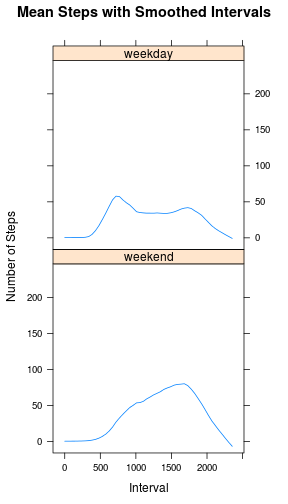
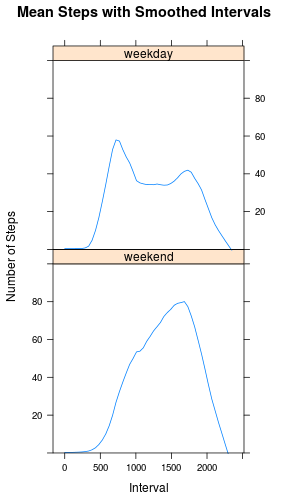
revised interpretation

diff --git a/PA1_template.html b/PA1_template.html
@@ -455,14 +455,14 @@ xyplot(interval_steps$imputed_steps ~ interval_steps$interval | day, data=interv
 
 <pre><code class="r">xyplot(interval_steps$imputed_steps ~ interval_steps$interval | day, data=interval_steps,
        layout=c(1,2), main=&quot;Mean Steps with Smoothed Intervals&quot;, xlab=&quot;Interval&quot;,
-       ylab=&quot;Number of Steps&quot;, type=c(&quot;smooth&quot;,&quot;smooth&quot;), span=.25)
+       ylab=&quot;Number of Steps&quot;, type=c(&quot;smooth&quot;,&quot;smooth&quot;), span=.25, ylim = c(0,100))
 </code></pre>
 
[2 lines of base64/hex data omitted]
 
 <h3>Interpretation</h3>
 
-<p>The plots show that the weekday step count peaks earlier in the day, plateaus for some hours, and then has another increase later in the day. The weekend step counts build throughout the day and reach a higher maximum than the weekday counts. This seems to be consistent with a  traditional 40-hour work week schedule.</p>
+<p>The plots show that the weekday step counts peak eary in the day, plateau for some hours, and then increase later in the day. The weekend step counts build quickly and do not plateau. This seems consistent with a traditional 40-hour work week schedule.</p>
 
 </body>
 

diff --git a/PA1_template.md b/PA1_template.md
@@ -300,11 +300,11 @@ Now using a smoothing filter:
 ```r
 xyplot(interval_steps$imputed_steps ~ interval_steps$interval | day, data=interval_steps,
        layout=c(1,2), main="Mean Steps with Smoothed Intervals", xlab="Interval",
-       ylab="Number of Steps", type=c("smooth","smooth"), span=.25)
+       ylab="Number of Steps", type=c("smooth","smooth"), span=.25, ylim = c(0,100))
 ```
 
 ![plot of chunk smoothed_plot](figure/smoothed_plot-1.png) 
 
 <h3>Interpretation</h3>
-The plots show that the weekday step count peaks earlier in the day, plateaus for some hours, and then has another increase later in the day. The weekend step counts build throughout the day and reach a higher maximum than the weekday counts. This seems to be consistent with a  traditional 40-hour work week schedule.
+The plots show that the weekday step counts peak eary in the day, plateau for some hours, and then increase later in the day. The weekend step counts build quickly and do not plateau. This seems consistent with a traditional 40-hour work week schedule.
 
